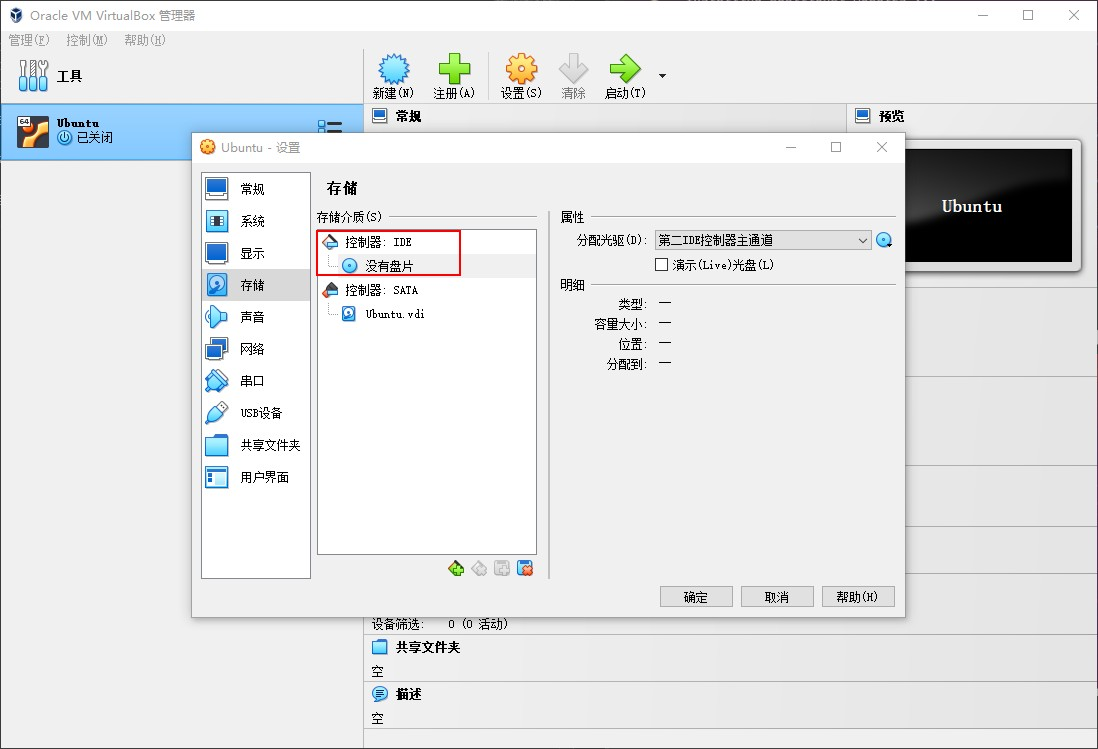
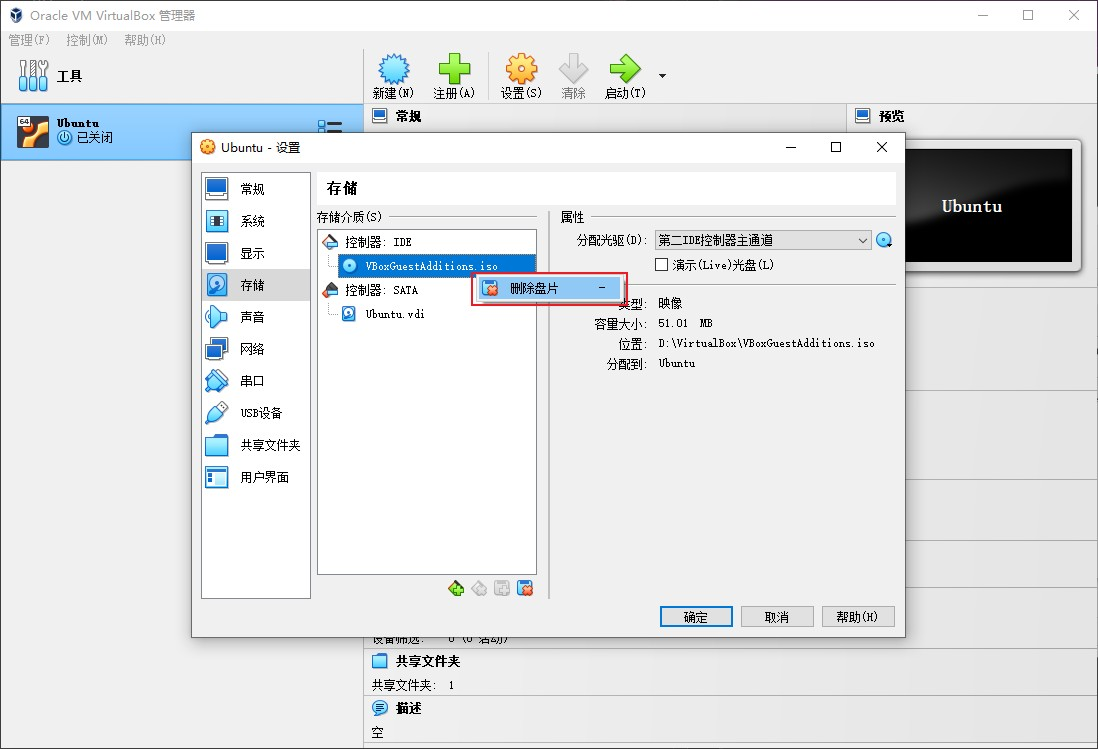
update

diff --git a/ubuntu_setup/_1_Setup_System.md b/ubuntu_setup/_1_Setup_System.md
@@ -63,6 +63,8 @@
 >
 > 安装：一路Next就可以了,这个比较简单。
 > 
+> 官方手册在D:\VirtualBox\doc\UserManual.pdf
+> 
 > 配置：
 >
 > `CTRL+G`打开全局设定，设置虚拟机默认安装位置
@@ -104,9 +106,19 @@
 > <img src="./images/Setup_System/virtual_machine_11.jpg" style="zoom:100%">
 > <img src="./images/Setup_System/virtual_machine_12.jpg" style="zoom:100%">
 > <img src="./images/Setup_System/virtual_machine_13.jpg" style="zoom:100%">
+> <img src="./images/Setup_System/virtual_machine_14.jpg" style="zoom:100%">
 > </div>
-> 
+>
 
+> 上面显存大小的设置`max`为`128MB`，为什么这么低？
+> 
+> https://forums.virtualbox.org/viewtopic.php?f=6&t=107806#:~:text=256MB%20is%20the%20max.,%2C%20128MB%20is%20the%20max.)
+>
+> `VirtualBox` 能提供的 最大显存为 `256MB`。 （对于某些 VM 操作系统设置，最大 `128MB`。我们就是）该 `RAM` 实际上位于主机的常规 `RAM` 内，而不是显卡的 `RAM`。
+>
+> 如果想要更大的显存，最好将 `VirtualBox` 更换成功能更强大的 `VMware`
+>
+> 
 
 
 
@@ -185,6 +197,11 @@
 > <img src="./images/Setup_System/Ubuntu_27.jpg" style="zoom:100%">
 > </div>
 >
+> 如果想要获取增强功能的虚拟盘
+> 
+> 点击左上角：设备 -> 安装增强功能
+>
+> 会提示是否重新安装
 > 
 
 

diff --git a/ubuntu_setup/_2_System_Configure.md b/ubuntu_setup/_2_System_Configure.md
@@ -312,6 +312,10 @@
 > <img src="./images/System_Configure/Network_VPN_5.jpg" style="zoom:100%">
 > </div>
 >
+> 也可以不用这么麻烦
+> 
+> 在任务管理器(`Ctrl + Alt + Del`)中可以直接看到
+>
 > 
 > 3. VirtualBox 选择桥接模式
 > 
